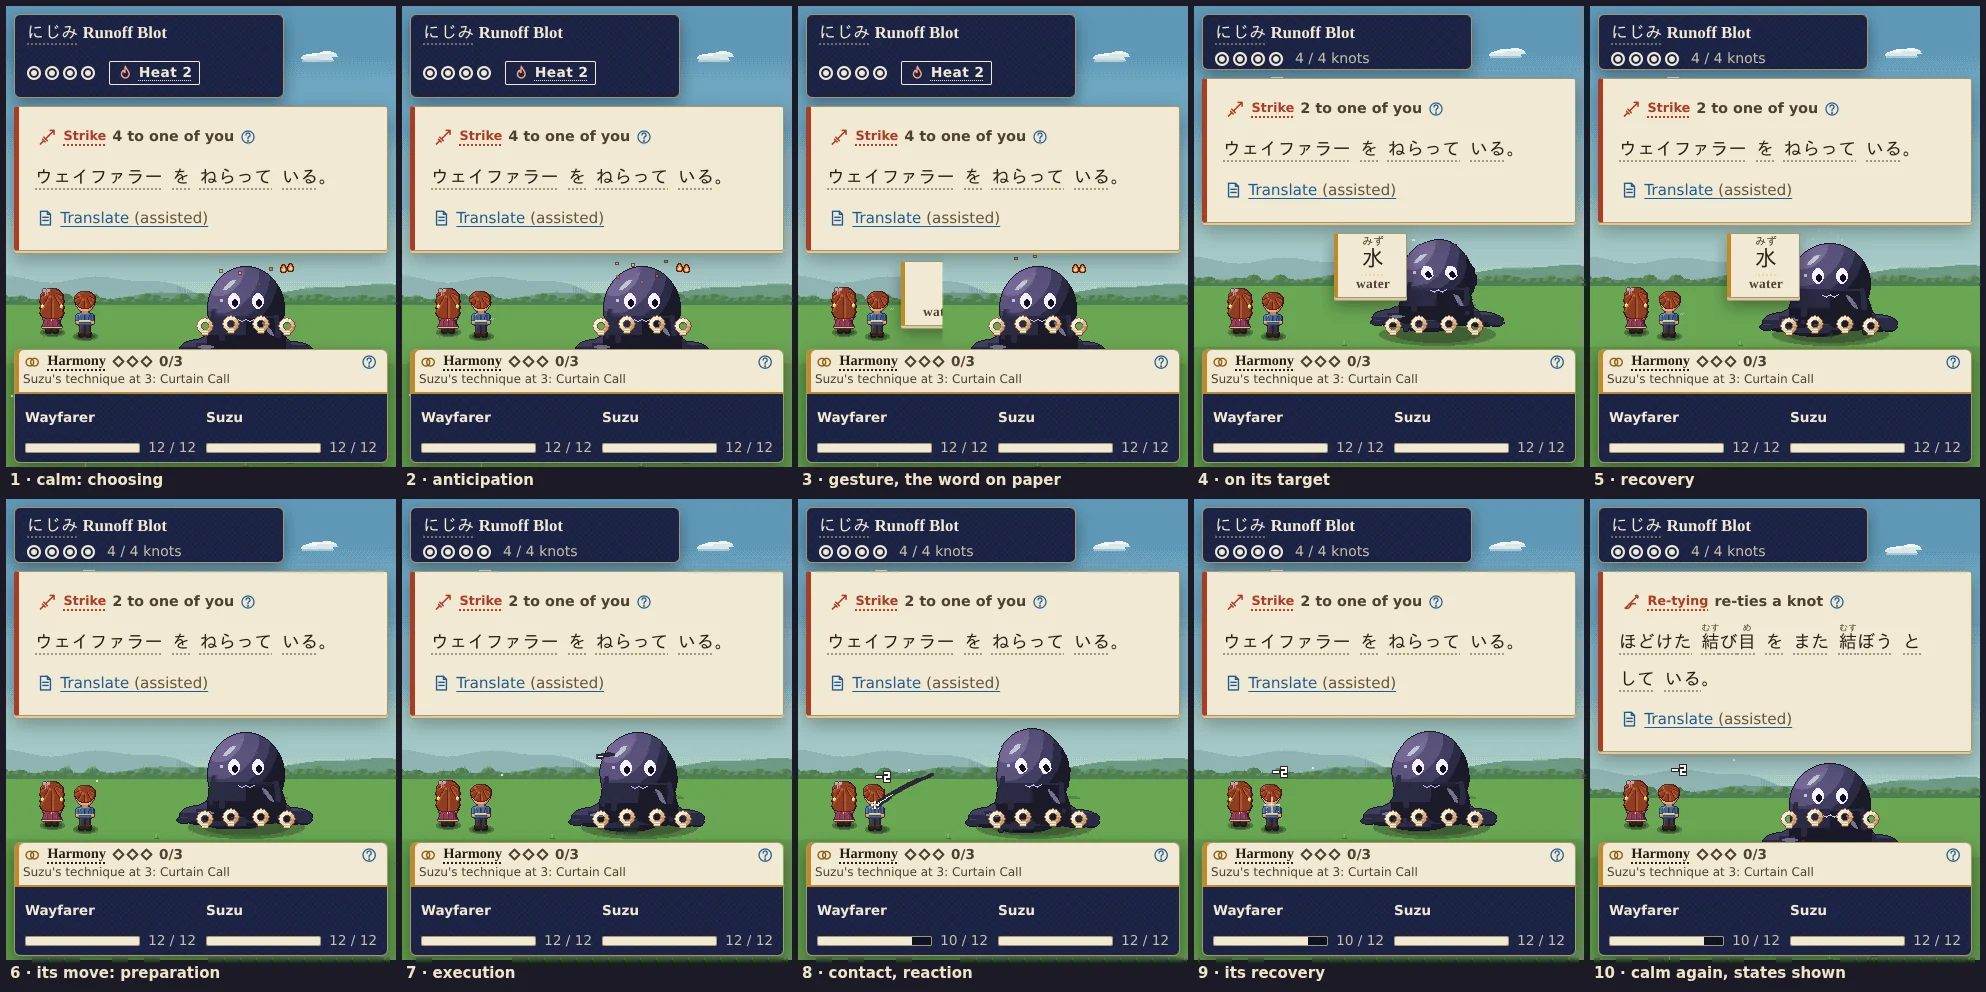
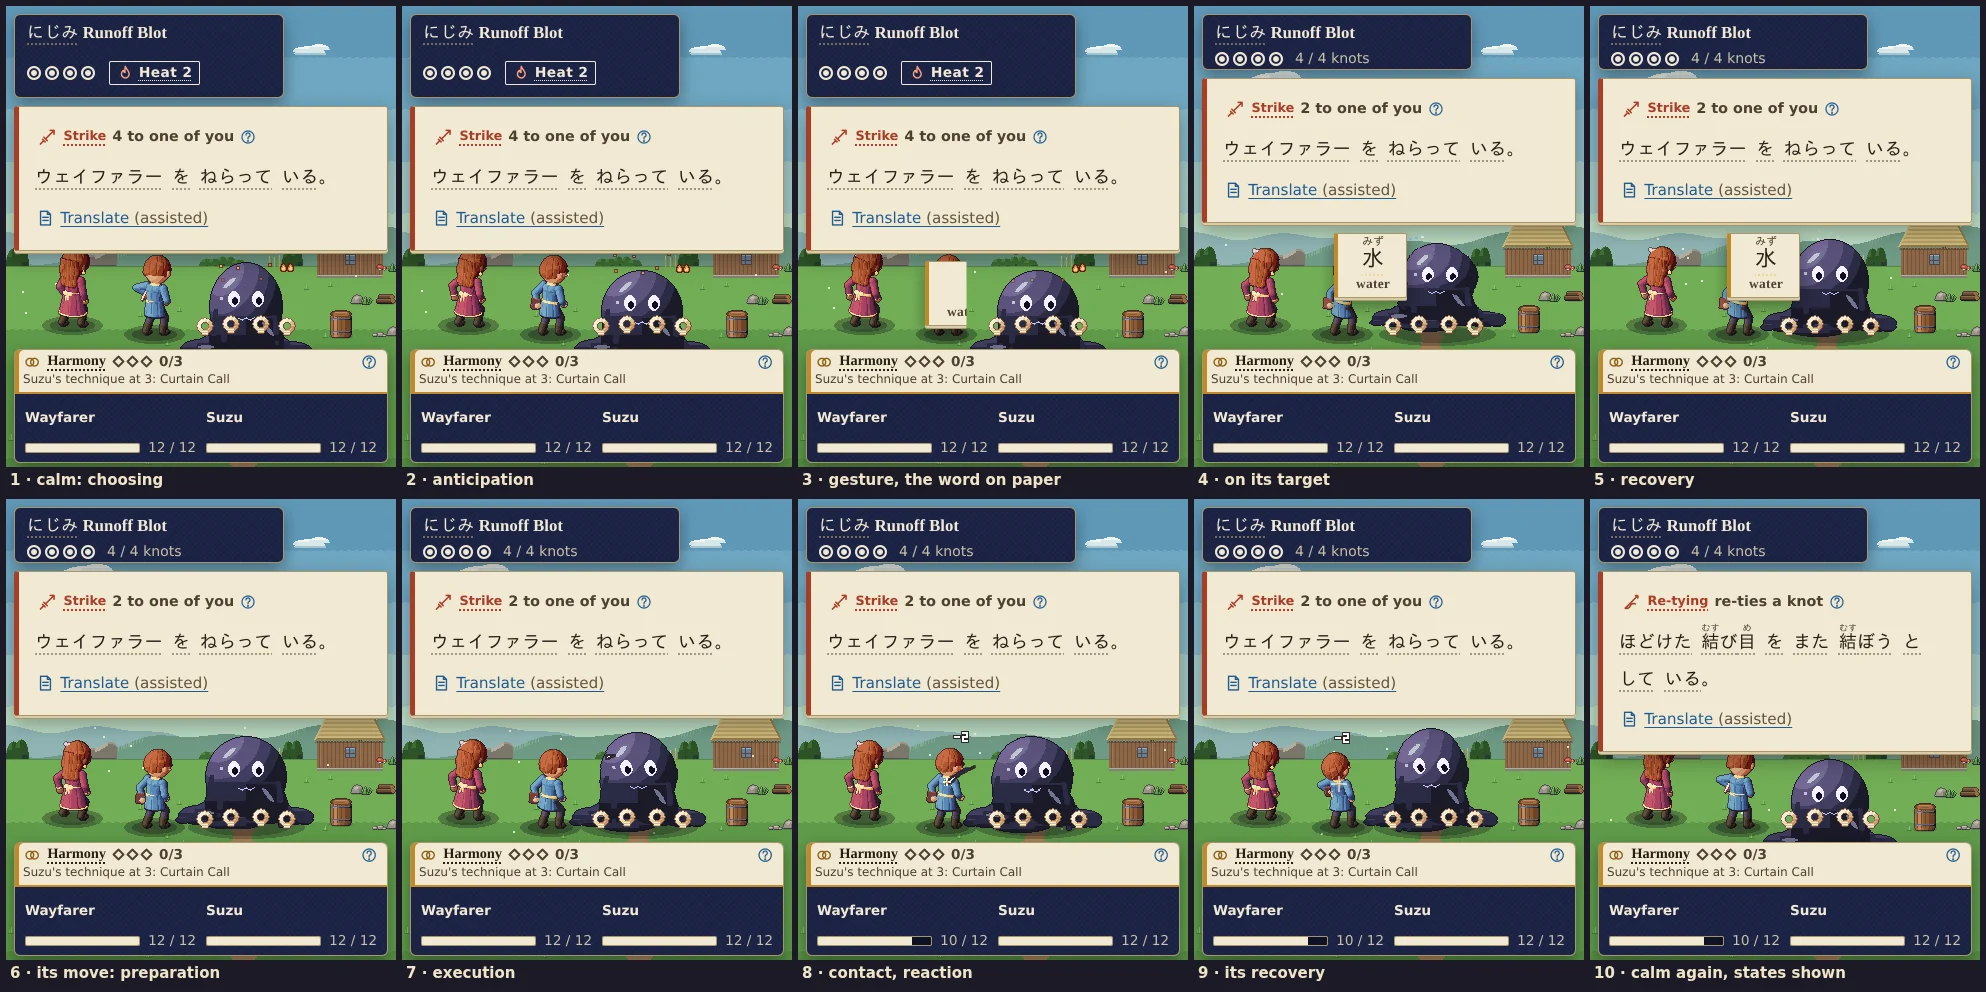
Battle presentation: record and captures with the real battle figures
docs/ART_DIRECTION.md §11: the arrangement with the 80x104 frame, the
backdrop's px/py convention, RB.battlers wired (prewarm at start), the
fallback reading the road frame, and the measured frame cost.
docs/screenshots/battle/: exchange strips and the response / enemy-move
sheets re-captured with RB.battlers and the composed backdrops.

Claude-Session: https://claude.ai/code/session_015RcFBxQ5xp952n4kFB8UbL

diff --git a/docs/ART_DIRECTION.md b/docs/ART_DIRECTION.md
@@ -730,14 +730,21 @@ shows only frost at contact.
 - Your companion stands a step back on the left. You stand in front on the
   right, nearest the creature, so your gestures reach it without crossing
   anyone.
-- Both face up-right (that depends on `RB.battlers`; see below).
+  - The companion's feet are about 0.8 of a frame width plus a gap
+    (≈ 82 art px) to your left, and about 9 % of a figure's height further
+    back.
+  - Both face up-right (`facing: 'upright'`).
 - The party's integer scale makes a figure about 44 % of the stage height,
-  never taller than the creature. A 96-px battle frame therefore draws at
-  scale 1 where the 48-px fallback draws at 2, the same size on screen.
+  never taller than the creature. The 80×104 battle frame draws at scale 1
+  on phones and desktops, and at 2 only on very tall stages.
 - The creature keeps its scale rule. It moves right, clear of the party,
   where the stage allows.
 - The backdrop receives `{ S, ex, ey, ext, px, py, ps, scale, art, party }`.
-  `party` is the party's box in canvas px, so a composer can keep it clear.
+  - `px, py` follow the composer's "old corner" convention: your feet are
+    at `px + 16·ps`, `py + 48·ps`. Its party box, from the stage's left edge
+    to `px + 140·ps` and up to 112·ps above your feet, covers you both.
+  - `party` is the actual box in canvas px (both frames, with room for
+    gestures and seals), for a composer that wants it.
 - The whole-screen shake and Heat tint are gone. All feedback is local to
   the actor it concerns, and nothing moves the DOM overlay.
 
@@ -789,10 +796,15 @@ The stage calls the character art's battle frames, `RB.battlers`:
 - `draw(ctx, look, {x, y, scale, t, who, pose, gesture, k, reduce, facing})`,
   which returns the `hand`, `head`, `chest` and `feet` anchors.
 
-Until that module is present, a fallback in `83_battle_stage.js` stands in.
-It draws the straight-back walking sprite (32×48) with simple band offsets
-per pose and a tiny prop per gesture. Captures made before the merge show
-that stand-in, not the rear-three-quarter art.
+The module is merged (§10: an 80×104 frame, anchor (36, 100)). The stage
+passes the actor's current pose, gesture and progress k, and it attaches
+effects, strips and numbers to the anchors that `draw` returns. At the
+start of a battle, `RB.battlers.prewarm(look, who)` builds each figure's
+idle frames.
+
+If the module is ever absent, a fallback in `83_battle_stage.js` stands in.
+It draws the road sprite (`RB.sprites.FRAME`, 40×58) with simple band
+offsets per pose and a tiny prop per gesture, behind the same interface.
 
 ### Evidence
 
@@ -801,3 +813,12 @@ that stand-in, not the rear-three-quarter art.
   each captured at its beat.
 - `--docs` copies the WebP strips to `docs/screenshots/battle/`.
 - Frames and strips go to `tests/e2e/out/battle_anim/`.
+- Frame cost is the time to draw the whole battle (backdrop, stage,
+  effects), measured by `RB.combat.debug().frames` at 1280×800 in headless
+  Chromium with a software canvas and the real battle figures.
+  - During sequences it averages 1.5–1.7 ms per frame, with a maximum of
+    11–15 ms.
+  - Over all frames it averages about 2 ms. The one-off maximum of about
+    0.2 s is the first frame building the backdrop and figure caches.
+  - With the fallback figures, sequences averaged 0.5–0.7 ms.
+  - Not measured on real phones.

diff --git a/docs/screenshots/battle/README.md b/docs/screenshots/battle/README.md
@@ -9,10 +9,10 @@ To make the captures easy to follow, the presentation clock was slowed to
 ×0.2 (×0.25 for the sheets) with `RB.battleSeq.setTimeScale`. This slows the
 frames down but does not change the choreography.
 
-The adventurers here are the **fallback** stand-in: the straight-back
-walking sprite with simple pose offsets. It is used until the character
-art's `RB.battlers` battle frames (rear three-quarter, facing up-right) are
-merged. Re-capture after that merge.
+The adventurers are the character art's `RB.battlers` battle figures (rear
+three-quarter, facing up-right). The backdrops are the location-aware
+composer (`RB.battlePlaces`). Both were merged from
+`claude/stoic-sagan-n3jvgk` at 0b47c13.
 
 | File | What it shows |
 |---|---|
